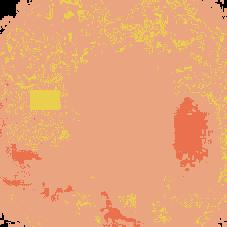
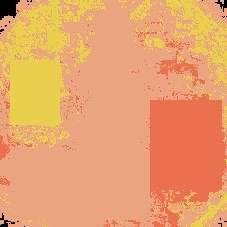
fixing some imagex SVM 2

diff --git a/SVM_classification.py b/SVM_classification.py
@@ -8,7 +8,7 @@ import os
 
 
 
-# #1----------------------------------------------------------------------------------------------------------
+##1----------------------------------------------------------------------------------------------------------
 # classes = {'wall': 0, 'polyp': 1, 'dirt': 2, 'dark': 3, 'hole': 4}
 # n_classes = len(classes)
 # palette = np.uint8([[234, 164, 128], [234, 112, 78], [234, 207, 79], [0, 0, 0], [67,52,31]])
@@ -908,42 +908,43 @@ import os
 #
 # supervised_24 = supervised
 # imageio.imwrite('./images/24_SVM.jpg',palette[supervised])
-#25---------------------------------------------------------------------------------------------
-classes = {'wall': 0, 'polyp': 1, 'dirt': 2, 'dark': 3, 'hole': 4}
-n_classes = len(classes)
-palette = np.uint8([[234, 164, 128], [234, 112, 78], [234, 207, 79], [0, 0, 0], [67,52,31]])
-
-img = io.imread('images/25.jpg')
-img2 = img
-rows, cols, bands = img.shape
-
-
-X = img.reshape(rows*cols, bands)
-kmeans = KMeans(n_clusters=n_classes, random_state=0).fit(X)
-
-supervised = n_classes*np.ones(shape=(rows, cols), dtype=np.int)
-supervised[0:50, 50:100] = classes['wall']
-supervised[160:220, 32:80] = classes['polyp']
-#supervised[103:107, 12:18] = classes['dirt']
-#supervised[100:190, 0:25] = classes['hole']
-supervised[0:12, 0:12] = classes['dark']
-
-y = supervised.ravel()
-train = np.flatnonzero(supervised < n_classes)
-test = np.flatnonzero(supervised == n_classes)
-
-clf = SVC()
-clf.fit(X[train], y[train])
-y[test] = clf.predict(X[test])
-supervised = y.reshape(rows, cols)
-#io.imshow(palette[supervised])
-plt.imshow(img2)
-plt.show()
-plt.imshow(palette[supervised], cmap=plt.cm.binary)
-plt.show()
-
-supervised_25 = supervised
-imageio.imwrite('./images/25_SVM.jpg',palette[supervised])
+# #25---------------------------------------------------------------------------------------------
+# classes = {'wall': 0, 'polyp': 1, 'dirt': 2, 'dark': 3, 'hole': 4}
+# n_classes = len(classes)
+# palette = np.uint8([[234, 164, 128], [234, 112, 78], [234, 207, 79], [0, 0, 0], [67,52,31]])
+#
+# img = io.imread('images/25.jpg')
+# img2 = img
+# rows, cols, bands = img.shape
+#
+#
+# X = img.reshape(rows*cols, bands)
+# kmeans = KMeans(n_clusters=n_classes, random_state=0).fit(X)
+#
+# supervised = n_classes*np.ones(shape=(rows, cols), dtype=np.int)
+# supervised[25:120, 25:175] = classes['wall']
+# supervised[85:225, 85:190] = classes['wall']
+# supervised[145:225, 22:82] = classes['polyp']
+# #supervised[103:107, 12:18] = classes['dirt']
+# #supervised[100:190, 0:25] = classes['hole']
+# supervised[0:12, 0:12] = classes['dark']
+#
+# y = supervised.ravel()
+# train = np.flatnonzero(supervised < n_classes)
+# test = np.flatnonzero(supervised == n_classes)
+#
+# clf = SVC()
+# clf.fit(X[train], y[train])
+# y[test] = clf.predict(X[test])
+# supervised = y.reshape(rows, cols)
+# #io.imshow(palette[supervised])
+# plt.imshow(img2)
+# plt.show()
+# plt.imshow(palette[supervised], cmap=plt.cm.binary)
+# plt.show()
+#
+# supervised_25 = supervised
+# imageio.imwrite('./images/25_SVM.jpg',palette[supervised])
 # #26---------------------------------------------------------------------------------------------
 # classes = {'wall': 0, 'polyp': 1, 'dirt': 2, 'dark': 3, 'hole': 4}
 # n_classes = len(classes)
@@ -994,9 +995,10 @@ imageio.imwrite('./images/25_SVM.jpg',palette[supervised])
 # kmeans = KMeans(n_clusters=n_classes, random_state=0).fit(X)
 #
 # supervised = n_classes*np.ones(shape=(rows, cols), dtype=np.int)
-# supervised[80:140, 90:130] = classes['wall']
-# supervised[115:150, 175:200] = classes['polyp']
-# supervised[90:110, 30:60] = classes['dirt']
+# supervised[150:220, 10:150] = classes['wall']
+# supervised[10:220, 95:130] = classes['wall']
+# supervised[100:190, 150:222] = classes['polyp']
+# supervised[60:125, 10:60] = classes['dirt']
 # #supervised[100:190, 0:25] = classes['hole']
 # supervised[0:12, 0:12] = classes['dark']
 #
@@ -1030,8 +1032,10 @@ imageio.imwrite('./images/25_SVM.jpg',palette[supervised])
 # kmeans = KMeans(n_clusters=n_classes, random_state=0).fit(X)
 #
 # supervised = n_classes*np.ones(shape=(rows, cols), dtype=np.int)
-# supervised[50:100, 0:50] = classes['wall']
-# supervised[175:210, 160:200] = classes['polyp']
+# supervised[40:140, 0:200] = classes['wall']
+# supervised[150:210, 0:140] = classes['wall']
+# supervised[5:50, 20:200] = classes['wall']
+# supervised[150:215, 145:225] = classes['polyp']
 # #supervised[90:110, 30:60] = classes['dirt']
 # #supervised[100:190, 0:25] = classes['hole']
 # supervised[0:14, 0:15] = classes['dark']
@@ -1066,8 +1070,9 @@ imageio.imwrite('./images/25_SVM.jpg',palette[supervised])
 # kmeans = KMeans(n_clusters=n_classes, random_state=0).fit(X)
 #
 # supervised = n_classes*np.ones(shape=(rows, cols), dtype=np.int)
-# supervised[50:150, 0:50] = classes['wall']
-# supervised[70:100, 126:165] = classes['polyp']
+# supervised[50:170, 0:100] = classes['wall']
+# supervised[120:190, 80:220] = classes['wall']
+# supervised[68:110, 105:185] = classes['polyp']
 # #supervised[90:110, 30:60] = classes['dirt']
 # #supervised[100:190, 0:25] = classes['hole']
 # supervised[0:14, 0:15] = classes['dark']
@@ -1102,8 +1107,10 @@ imageio.imwrite('./images/25_SVM.jpg',palette[supervised])
 # kmeans = KMeans(n_clusters=n_classes, random_state=0).fit(X)
 #
 # supervised = n_classes*np.ones(shape=(rows, cols), dtype=np.int)
-# supervised[50:150, 0:50] = classes['wall']
-# supervised[155:190, 160:178] = classes['polyp']
+# supervised[40:190, 0:125] = classes['wall']
+# supervised[40:120, 100:220] = classes['wall']
+# supervised[145:200, 157:210] = classes['polyp']
+# supervised[132:170, 132:170] = classes['polyp']
 # #supervised[90:110, 30:60] = classes['dirt']
 # #supervised[100:190, 0:25] = classes['hole']
 # supervised[0:15, 0:15] = classes['dark']
@@ -1139,7 +1146,8 @@ imageio.imwrite('./images/25_SVM.jpg',palette[supervised])
 #
 # supervised = n_classes*np.ones(shape=(rows, cols), dtype=np.int)
 # supervised[50:150, 0:20] = classes['wall']
-# supervised[60:74, 185:195] = classes['polyp']
+# supervised[85:150, 160:227] = classes['wall']
+# supervised[58:76, 175:208] = classes['polyp']
 # #supervised[90:110, 30:60] = classes['dirt']
 # supervised[90:115, 102:120] = classes['hole']
 # supervised[0:20, 0:20] = classes['dark']
@@ -1174,10 +1182,11 @@ imageio.imwrite('./images/25_SVM.jpg',palette[supervised])
 # kmeans = KMeans(n_clusters=n_classes, random_state=0).fit(X)
 #
 # supervised = n_classes*np.ones(shape=(rows, cols), dtype=np.int)
-# supervised[175:220, 155:200] = classes['wall']
-# supervised[150:180, 30:70] = classes['polyp']
+# supervised[155:227, 140:200] = classes['wall']
+# supervised[40:125, 0:40] = classes['wall']
+# supervised[140:195, 10:80] = classes['polyp']
 # #supervised[90:110, 30:60] = classes['dirt']
-# supervised[75:115, 60:120] = classes['hole']
+# supervised[0:140, 80:165] = classes['hole']
 # supervised[0:15, 0:15] = classes['dark']
 #
 # y = supervised.ravel()
@@ -1210,9 +1219,9 @@ imageio.imwrite('./images/25_SVM.jpg',palette[supervised])
 # kmeans = KMeans(n_clusters=n_classes, random_state=0).fit(X)
 #
 # supervised = n_classes*np.ones(shape=(rows, cols), dtype=np.int)
-# supervised[50:100, 75:125] = classes['wall']
+# supervised[40:125, 0:227] = classes['wall']
 # supervised[150:200, 150:200] = classes['wall']
-# supervised[140:190, 90:110] = classes['polyp']
+# supervised[130:195, 70:112] = classes['polyp']
 # #supervised[90:110, 30:60] = classes['dirt']
 # #supervised[75:115, 60:120] = classes['hole']
 # supervised[0:15, 0:15] = classes['dark']
@@ -1247,10 +1256,9 @@ imageio.imwrite('./images/25_SVM.jpg',palette[supervised])
 # kmeans = KMeans(n_clusters=n_classes, random_state=0).fit(X)
 #
 # supervised = n_classes*np.ones(shape=(rows, cols), dtype=np.int)
-# supervised[40:60, 140:210] = classes['wall']
-# supervised[90:110, 180:205] = classes['polyp']
-# supervised[165:173, 145:150] = classes['dirt']
-# supervised[85:102, 35:65] = classes['dirt']
+# supervised[20:80, 140:220] = classes['wall']
+# supervised[80:115, 175:210] = classes['polyp']
+# supervised[80:125, 10:69] = classes['dirt']
 # supervised[150:200, 0:20] = classes['hole']
 # supervised[200:220, 75:102] = classes['hole']
 # supervised[0:15, 0:15] = classes['dark']
@@ -1285,8 +1293,11 @@ imageio.imwrite('./images/25_SVM.jpg',palette[supervised])
 # kmeans = KMeans(n_clusters=n_classes, random_state=0).fit(X)
 #
 # supervised = n_classes*np.ones(shape=(rows, cols), dtype=np.int)
-# supervised[150:180, 60:125] = classes['wall']
-# supervised[20:60, 15:50] = classes['polyp']
+# supervised[125:200, 0:125] = classes['wall']
+# supervised[205:227, 50:168] = classes['wall']
+# supervised[140:190, 120:227] = classes['wall']
+# supervised[20:85, 0:85] = classes['polyp']
+# supervised[0:30, 24:92] = classes['polyp']
 # supervised[35:45, 125:150] = classes['dirt']
 # supervised[25:35, 180:190] = classes['dirt']
 # supervised[195:210, 175:180] = classes['hole']
@@ -1323,7 +1334,7 @@ imageio.imwrite('./images/25_SVM.jpg',palette[supervised])
 #
 # supervised = n_classes*np.ones(shape=(rows, cols), dtype=np.int)
 # supervised[0:25, 50:155] = classes['wall']
-# supervised[190:220, 160:195] = classes['polyp']
+# supervised[194:225, 160:200] = classes['polyp']
 # supervised[90:115, 85:115] = classes['dirt']
 # #supervised[195:210, 175:180] = classes['hole']
 # supervised[0:15, 0:15] = classes['dark']
@@ -1361,7 +1372,7 @@ imageio.imwrite('./images/25_SVM.jpg',palette[supervised])
 # supervised[50:150, 0:100] = classes['wall']
 # supervised[10:50, 50:165] = classes['wall']
 # supervised[150:227, 25:80] = classes['wall']
-# supervised[195:220, 150:185] = classes['polyp']
+# supervised[195:223, 150:188] = classes['polyp']
 # #supervised[90:115, 85:115] = classes['dirt']
 # #supervised[195:210, 175:180] = classes['hole']
 # supervised[0:15, 0:15] = classes['dark']
@@ -1397,10 +1408,11 @@ imageio.imwrite('./images/25_SVM.jpg',palette[supervised])
 #
 # supervised = n_classes*np.ones(shape=(rows, cols), dtype=np.int)
 # supervised[75:120, 50:87] = classes['polyp']
-# supervised[70:150, 130:165] = classes['wall']
+# supervised[60:125, 45:98] = classes['polyp']
+# supervised[0:227, 115:175] = classes['wall']
 # #supervised[90:115, 85:115] = classes['dirt']
 # #supervised[195:210, 175:180] = classes['hole']
-# supervised[0:15, 0:15] = classes['dark']
+# supervised[0:10, 0:10] = classes['dark']
 #
 # y = supervised.ravel()
 # train = np.flatnonzero(supervised < n_classes)
@@ -1504,8 +1516,10 @@ imageio.imwrite('./images/25_SVM.jpg',palette[supervised])
 # kmeans = KMeans(n_clusters=n_classes, random_state=0).fit(X)
 #
 # supervised = n_classes*np.ones(shape=(rows, cols), dtype=np.int)
-# supervised[10:65, 130:200] = classes['polyp']
-# supervised[70:150, 130:165] = classes['wall']
+# supervised[28:90, 115:150] = classes['polyp']
+# supervised[0:65, 130:201] = classes['polyp']
+# supervised[100:179, 0:227] = classes['wall']
+# supervised[150:227, 50:150] = classes['wall']
 # #supervised[90:115, 85:115] = classes['dirt']
 # #supervised[110:175, 0:45] = classes['hole']
 # supervised[0:12, 0:12] = classes['dark']
@@ -1526,42 +1540,42 @@ imageio.imwrite('./images/25_SVM.jpg',palette[supervised])
 #
 # supervised_41 = supervised
 # imageio.imwrite('./images/41_SVM.jpg',palette[supervised])
-# #42---------------------------------------------------------------------------------------------
-# classes = {'wall': 0, 'polyp': 1, 'dirt': 2, 'dark': 3, 'hole': 4}
-# n_classes = len(classes)
-# palette = np.uint8([[234, 164, 128], [234, 112, 78], [234, 207, 79], [0, 0, 0], [67,52,31]])
-#
-# img = io.imread('images/42.jpg')
-# img2 = img
-# rows, cols, bands = img.shape
-#
-#
-# X = img.reshape(rows*cols, bands)
-# kmeans = KMeans(n_clusters=n_classes, random_state=0).fit(X)
-#
-# supervised = n_classes*np.ones(shape=(rows, cols), dtype=np.int)
-# supervised[125:165, 110:165] = classes['polyp']
-# supervised[15:60, 20:210] = classes['wall']
-# #supervised[90:115, 85:115] = classes['dirt']
-# supervised[160:205, 25:100] = classes['hole']
-# supervised[0:12, 0:12] = classes['dark']
-#
-# y = supervised.ravel()
-# train = np.flatnonzero(supervised < n_classes)
-# test = np.flatnonzero(supervised == n_classes)
-#
-# clf = SVC()
-# clf.fit(X[train], y[train])
-# y[test] = clf.predict(X[test])
-# supervised = y.reshape(rows, cols)
-# #io.imshow(palette[supervised])
-# plt.imshow(img2)
-# plt.show()
-# plt.imshow(palette[supervised], cmap=plt.cm.binary)
-# plt.show()
-#
-# supervised_42 = supervised
-# imageio.imwrite('./images/42_SVM.jpg',palette[supervised])
+#42---------------------------------------------------------------------------------------------
+classes = {'wall': 0, 'polyp': 1, 'dirt': 2, 'dark': 3, 'hole': 4}
+n_classes = len(classes)
+palette = np.uint8([[234, 164, 128], [234, 112, 78], [234, 207, 79], [0, 0, 0], [67,52,31]])
+
+img = io.imread('images/42.jpg')
+img2 = img
+rows, cols, bands = img.shape
+
+
+X = img.reshape(rows*cols, bands)
+kmeans = KMeans(n_clusters=n_classes, random_state=0).fit(X)
+
+supervised = n_classes*np.ones(shape=(rows, cols), dtype=np.int)
+supervised[125:165, 110:165] = classes['polyp']
+supervised[15:60, 20:210] = classes['wall']
+#supervised[90:115, 85:115] = classes['dirt']
+supervised[160:205, 25:100] = classes['hole']
+supervised[0:12, 0:12] = classes['dark']
+
+y = supervised.ravel()
+train = np.flatnonzero(supervised < n_classes)
+test = np.flatnonzero(supervised == n_classes)
+
+clf = SVC()
+clf.fit(X[train], y[train])
+y[test] = clf.predict(X[test])
+supervised = y.reshape(rows, cols)
+#io.imshow(palette[supervised])
+plt.imshow(img2)
+plt.show()
+plt.imshow(palette[supervised], cmap=plt.cm.binary)
+plt.show()
+
+supervised_42 = supervised
+imageio.imwrite('./images/42_SVM.jpg',palette[supervised])
 # #43---------------------------------------------------------------------------------------------
 # classes = {'wall': 0, 'polyp': 1, 'dirt': 2, 'dark': 3, 'hole': 4}
 # n_classes = len(classes)
